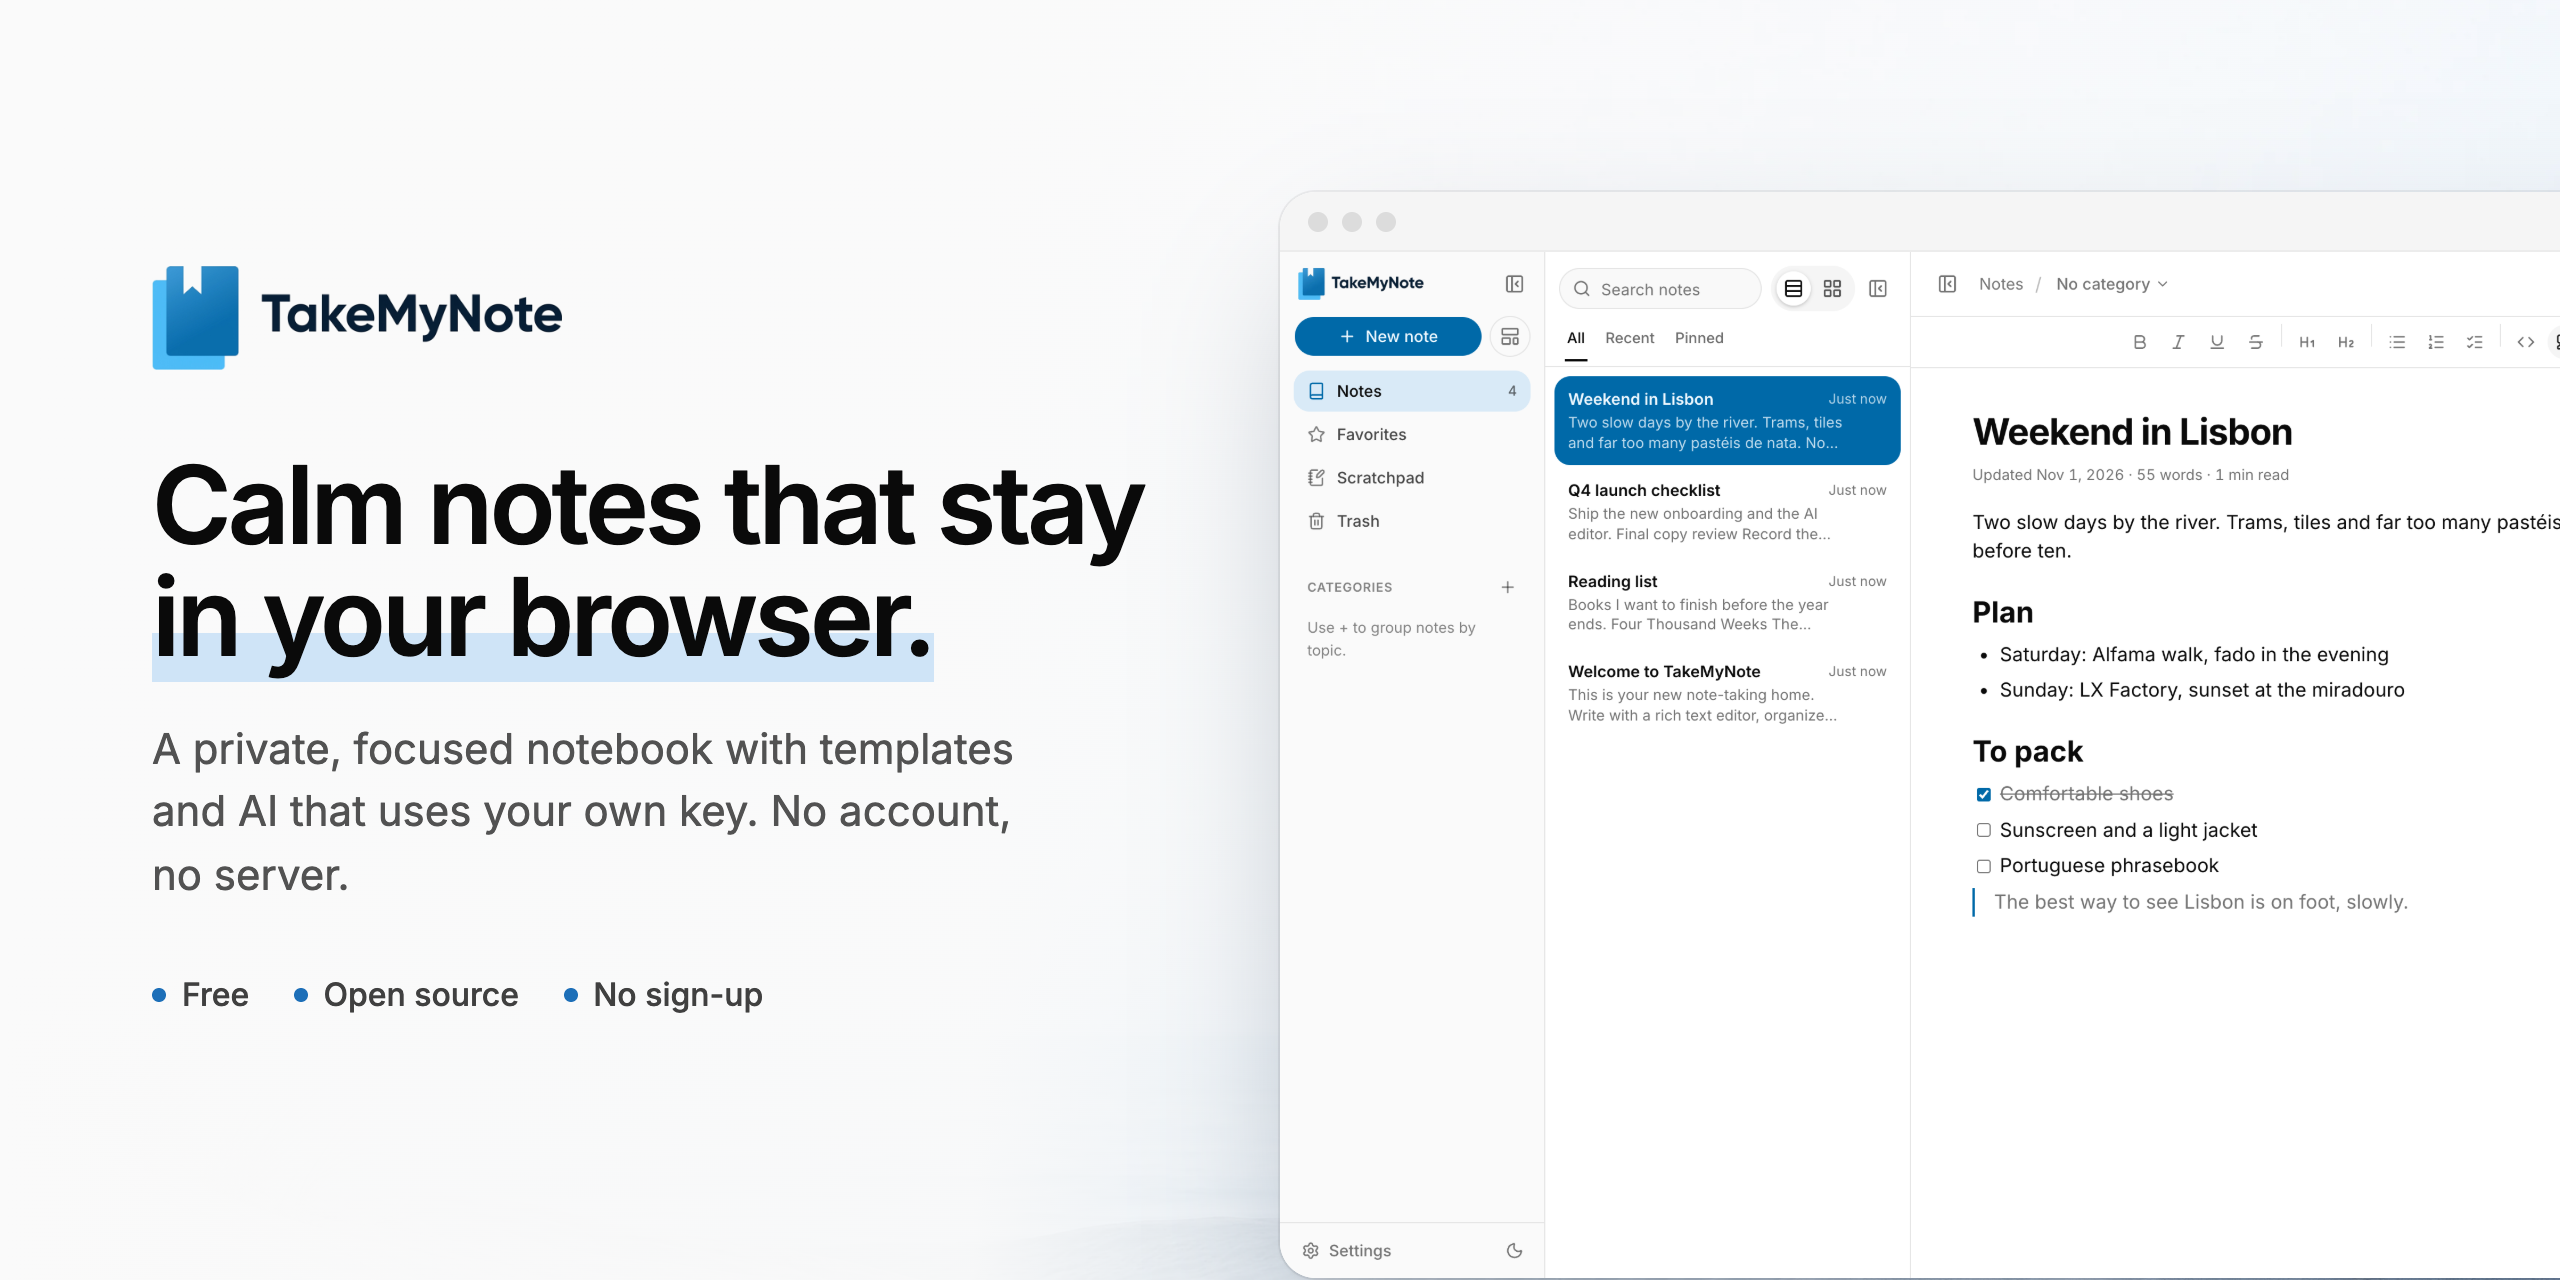
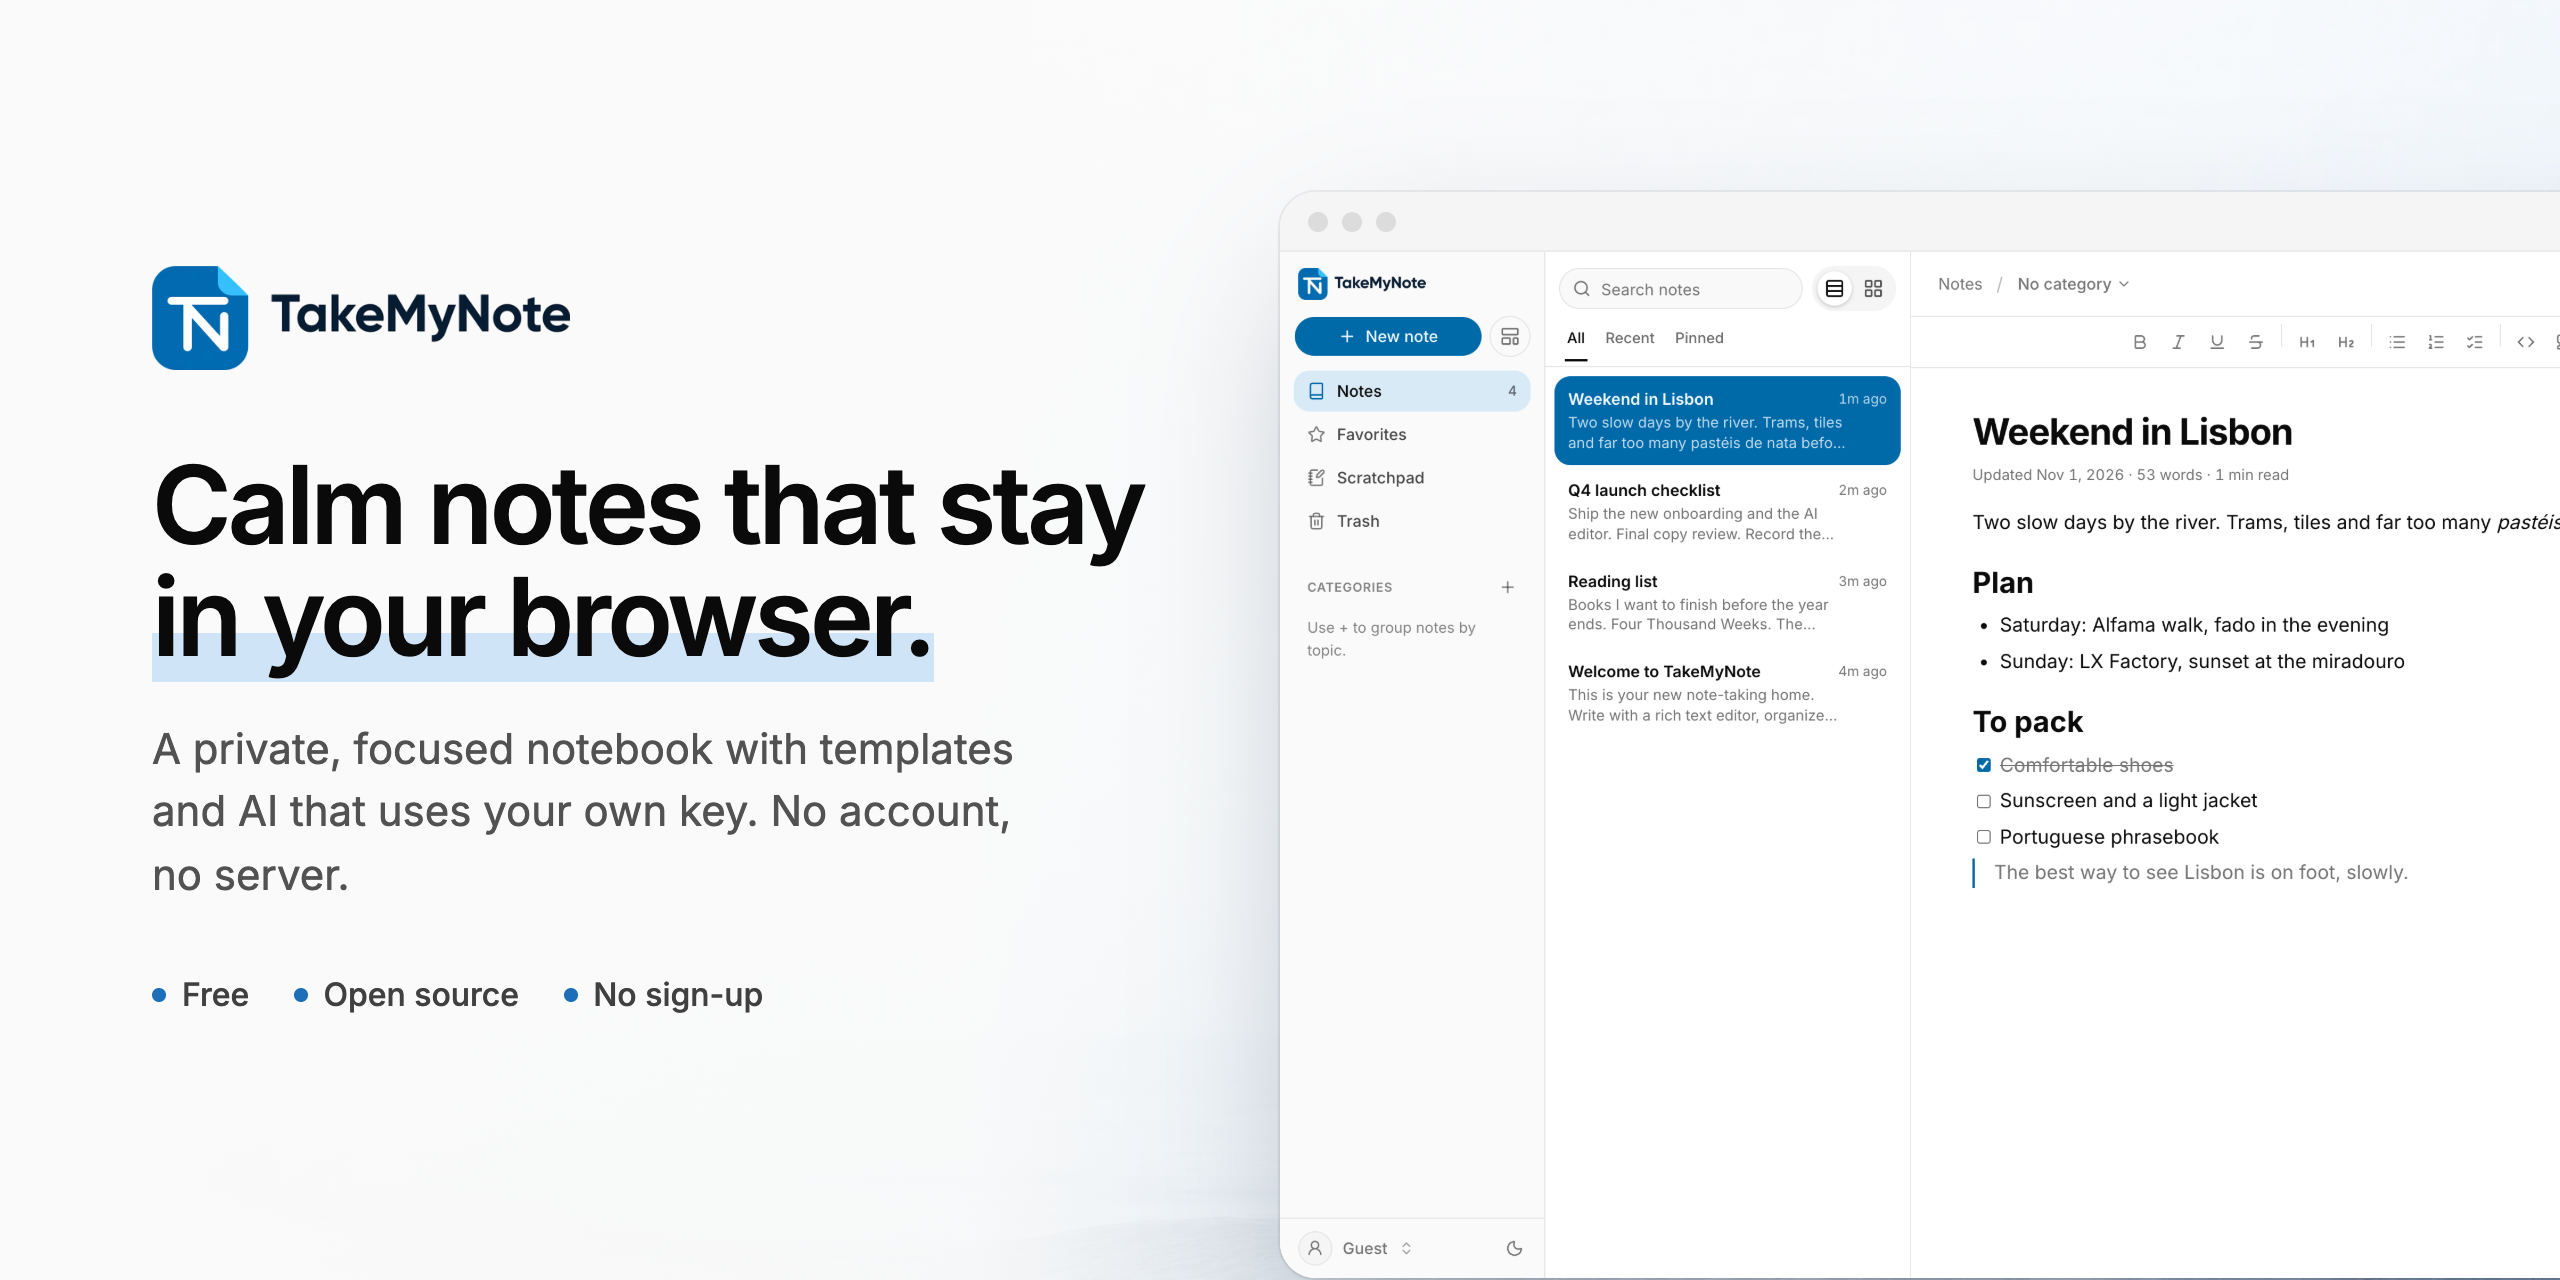
fix: correct capitalization in metadata title

diff --git a/components/brand/brand-assets.ts b/components/brand/brand-assets.ts
@@ -1,8 +1,8 @@
 import type { StaticImageData } from "next/image";
 
-import lockupDark from "./assets/logos/bookmark/lockup-dark.png";
-import lockup from "./assets/logos/bookmark/lockup.png";
-import mark from "./assets/logos/bookmark/mark.png";
+import lockupDark from "./assets/logos/page-tn/lockup-dark.png";
+import lockup from "./assets/logos/page-tn/lockup.png";
+import mark from "./assets/logos/page-tn/mark.png";
 
 export interface BrandLogoSet {
   /** The symbol alone (onboarding, favicon source). */
@@ -14,8 +14,10 @@ export interface BrandLogoSet {
 }
 
 /**
- * The TakeMyNote logo ("Bookmark": two stacked note cards with a ribbon).
- * Generated with scripts/generate-logo.mjs, processed with
- * `node scripts/build-brand.mjs bookmark --icons`, which also writes the favicons.
+ * The TakeMyNote logo ("Page TN": a blue note with a folded corner and a T and
+ * N sharing one stem). It replaced "Bookmark" (two stacked note cards), which
+ * Google's sign-in branding review found too generic; those files are kept in
+ * assets/logos/bookmark for now. Processed with
+ * `node scripts/build-brand.mjs page-tn --icons`, which also writes the favicons.
  */
 export const activeLogo: BrandLogoSet = { mark, lockup, lockupDark };

diff --git a/app/(app)/layout.tsx b/app/(app)/layout.tsx
@@ -8,7 +8,7 @@ import { PageTransition } from "@/components/common/page-transition";
 import { Toaster } from "@/components/ui/sonner";
 
 export const metadata: Metadata = {
-  title: "Your notes",
+  title: "Your Notes",
   description: "Write, organise and find your notes. Everything stays in this browser.",
   alternates: { canonical: "/notes" },
   // Shared links to the app get their own title (same preview image).
